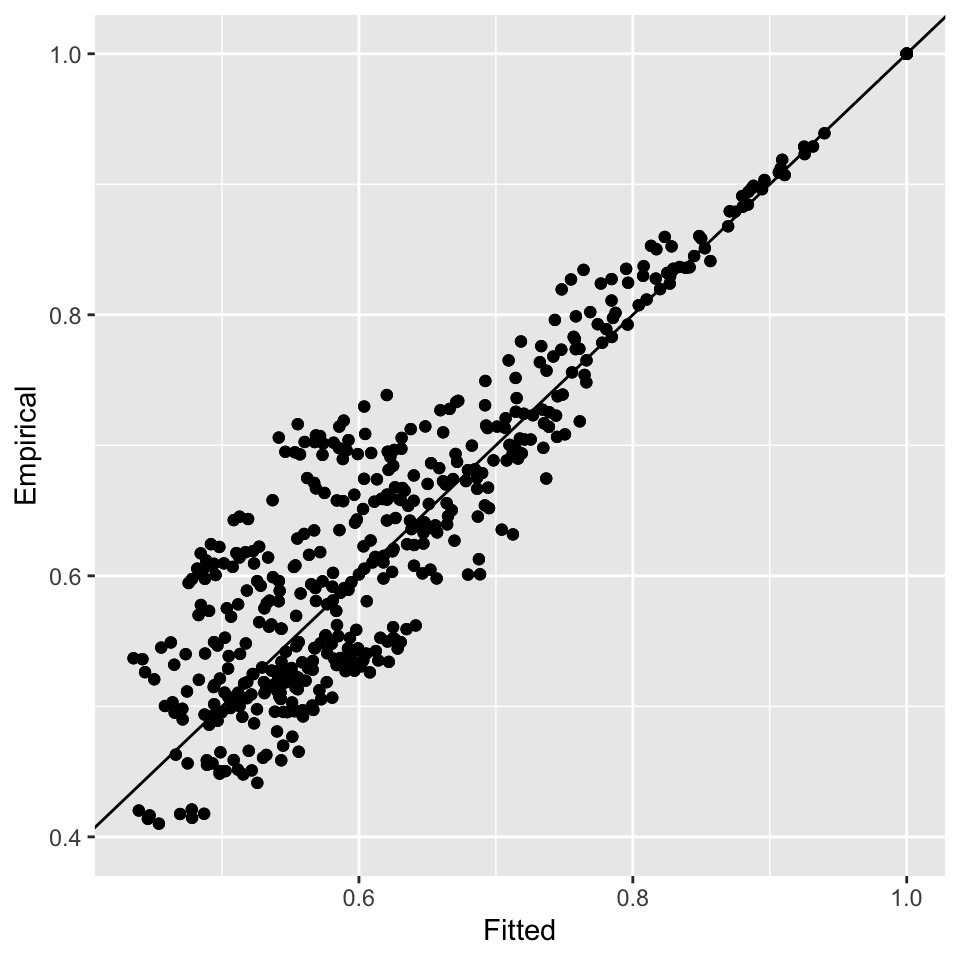
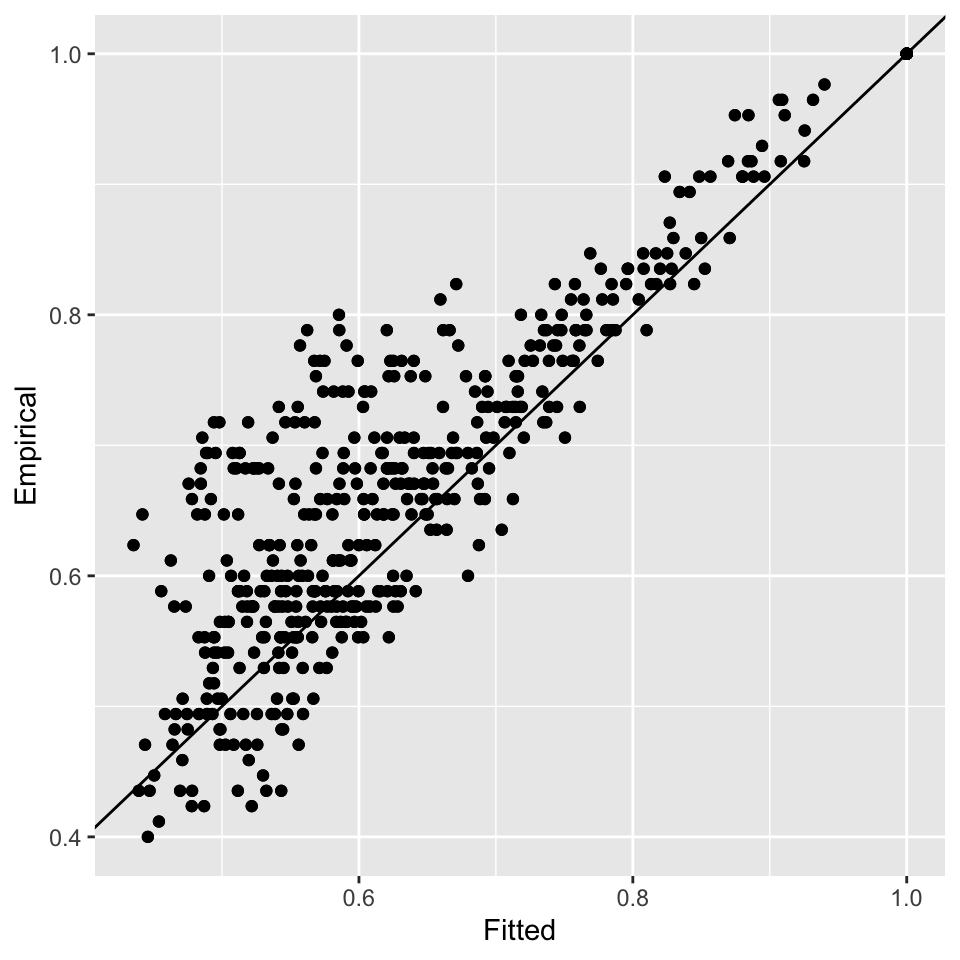
Built site for graphicalExtremes: 0.1.0.9000@cd755e6

Changed region(s): [[0.125, 0.0625, 0.875, 0.875], [0.4688, 0.2812, 0.5, 0.3125], [0.4375, 0.3125, 0.4688, 0.3438]]

diff --git a/articles/graphicalExtremes.html b/articles/graphicalExtremes.html
@@ -280,10 +280,10 @@ where <span class="math inline">\(\text{ph}(ij)\)</span> denotes the path betwee
 <p>If provided with a tree and data, the function <code><a href="../reference/fmpareto_graph_HR.html">fmpareto_graph_HR()</a></code> estimates the <span class="math inline">\(d-1\)</span> parametres of a Hüsler–Reiss model on that tree. As an example, we fit an extremal tree model to the (undirected) tree resulting from the flow connections in the <code><a href="../reference/danube.html">danube()</a></code> data set and compare the the fitted with the empirical extremal coefficients.</p>
 <div class="sourceCode" id="cb11"><pre class="downlit sourceCode r">
 <code class="sourceCode R"><span class="va">danube_tree</span> <span class="op">&lt;-</span> <span class="fu">igraph</span><span class="fu">::</span><span class="fu"><a href="https://rdrr.io/pkg/igraph/man/as.directed.html">as.undirected</a></span><span class="op">(</span><span class="va">danube_flow</span><span class="op">)</span>
-<span class="va">my_fit</span> <span class="op">&lt;-</span> <span class="fu"><a href="../reference/fmpareto_graph_HR.html">fmpareto_graph_HR</a></span><span class="op">(</span>data <span class="op">=</span> <span class="va">X</span>, graph <span class="op">=</span> <span class="va">danube_tree</span>, p <span class="op">=</span> <span class="fl">.8</span><span class="op">)</span>
+<span class="va">danube_flow_fit</span> <span class="op">&lt;-</span> <span class="fu"><a href="../reference/fmpareto_graph_HR.html">fmpareto_graph_HR</a></span><span class="op">(</span>data <span class="op">=</span> <span class="va">X</span>, graph <span class="op">=</span> <span class="va">danube_tree</span>, p <span class="op">=</span> <span class="fl">.8</span><span class="op">)</span>
 
 <span class="fu">ggplot</span><span class="op">(</span><span class="op">)</span> <span class="op">+</span>
-  <span class="fu">geom_point</span><span class="op">(</span><span class="fu">aes</span><span class="op">(</span>x <span class="op">=</span> <span class="fu"><a href="https://rdrr.io/r/base/c.html">c</a></span><span class="op">(</span><span class="fu"><a href="../reference/Gamma2chi.html">Gamma2chi</a></span><span class="op">(</span><span class="va">my_fit</span><span class="op">$</span><span class="va">Gamma</span><span class="op">)</span><span class="op">)</span>, y <span class="op">=</span> <span class="fu"><a href="https://rdrr.io/r/base/c.html">c</a></span><span class="op">(</span><span class="fu"><a href="../reference/Gamma2chi.html">Gamma2chi</a></span><span class="op">(</span><span class="va">Gamma_hat</span><span class="op">)</span><span class="op">)</span><span class="op">)</span><span class="op">)</span> <span class="op">+</span>
+  <span class="fu">geom_point</span><span class="op">(</span><span class="fu">aes</span><span class="op">(</span>x <span class="op">=</span> <span class="fu"><a href="https://rdrr.io/r/base/c.html">c</a></span><span class="op">(</span><span class="fu"><a href="../reference/Gamma2chi.html">Gamma2chi</a></span><span class="op">(</span><span class="va">danube_flow_fit</span><span class="op">$</span><span class="va">Gamma</span><span class="op">)</span><span class="op">)</span>, y <span class="op">=</span> <span class="fu"><a href="https://rdrr.io/r/base/c.html">c</a></span><span class="op">(</span><span class="va">chi_hat</span><span class="op">)</span><span class="op">)</span><span class="op">)</span> <span class="op">+</span>
   <span class="fu">geom_abline</span><span class="op">(</span>slope <span class="op">=</span> <span class="fl">1</span>, intercept <span class="op">=</span> <span class="fl">0</span><span class="op">)</span> <span class="op">+</span>
   <span class="fu">xlab</span><span class="op">(</span><span class="st">"Fitted"</span><span class="op">)</span> <span class="op">+</span>
   <span class="fu">ylab</span><span class="op">(</span><span class="st">"Empirical"</span><span class="op">)</span> <span class="op">+</span>
@@ -303,8 +303,8 @@ that minimizes the sum of distances on that tree.</p>
 <p>In fact, taking the average of all <span class="math inline">\(\hat \Gamma^{(k)}\)</span>, <span class="math inline">\(k \in V\)</span>, and using this as weights <span class="math inline">\(\rho_{ij} = \hat \Gamma_{ij}\)</span> makes better use of the data and usually improves the performance of structure estimation significantly. <span class="citation">Engelke and Volgushev (2020)</span> further show that the empircal extremal correlation <span class="math inline">\(\rho_{ij} = \hat \chi_{ij}\)</span> may also be used for consistent tree recovery, but the performance is typically inferior to extremal variogram based algorithms.</p>
 <p>The function <code><a href="../reference/emst.html">emst()</a></code> estimates the extremal tree structure by a minimum spanning tree algorithm based on the different summary statistics for extremal dependence. It provides the estimated tree and the implied extremal variogram matrix through <a href="#eq:treemetric">(4.2)</a>.</p>
 <div class="sourceCode" id="cb12"><pre class="downlit sourceCode r">
-<code class="sourceCode R"><span class="va">my_fit</span> <span class="op">&lt;-</span> <span class="fu"><a href="../reference/emst.html">emst</a></span><span class="op">(</span>data <span class="op">=</span> <span class="va">X</span>, p <span class="op">=</span> <span class="fl">.8</span>, method <span class="op">=</span> <span class="st">"vario"</span><span class="op">)</span>
-<span class="fu"><a href="https://rdrr.io/r/graphics/plot.default.html">plot</a></span><span class="op">(</span><span class="va">my_fit</span><span class="op">$</span><span class="va">tree</span>, layout <span class="op">=</span> <span class="va">danube</span><span class="op">$</span><span class="va">coords_to_plot</span><span class="op">)</span></code></pre></div>
+<code class="sourceCode R"><span class="va">danube_emst_fit</span> <span class="op">&lt;-</span> <span class="fu"><a href="../reference/emst.html">emst</a></span><span class="op">(</span>data <span class="op">=</span> <span class="va">X</span>, p <span class="op">=</span> <span class="fl">.8</span>, method <span class="op">=</span> <span class="st">"vario"</span><span class="op">)</span>
+<span class="fu"><a href="https://rdrr.io/r/graphics/plot.default.html">plot</a></span><span class="op">(</span><span class="va">danube_emst_fit</span><span class="op">$</span><span class="va">tree</span>, layout <span class="op">=</span> <span class="va">danube</span><span class="op">$</span><span class="va">coords_to_plot</span><span class="op">)</span></code></pre></div>
 <p><img src="graphicalExtremes_files/figure-html/unnamed-chunk-13-1.png" width="480" style="display: block; margin: auto;"></p>
 </div>
 </div>
@@ -450,6 +450,36 @@ Combining the clique estimates relies on the same principle as in the <code><a h
   <span class="fu">ylab</span><span class="op">(</span><span class="st">"True"</span><span class="op">)</span> <span class="op">+</span>
   <span class="fu">coord_cartesian</span><span class="op">(</span>ylim <span class="op">=</span> <span class="fu"><a href="https://rdrr.io/r/base/c.html">c</a></span><span class="op">(</span><span class="fl">0.5</span>, <span class="fl">1</span><span class="op">)</span><span class="op">)</span></code></pre></div>
 <p><img src="graphicalExtremes_files/figure-html/unnamed-chunk-20-2.png" width="480" style="display: block; margin: auto;"></p>
+</div>
+<div id="extremal-graphical-lasso" class="section level3">
+<h3 class="hasAnchor">
+<a href="#extremal-graphical-lasso" class="anchor"></a><span class="header-section-number">4.2.4</span> Extremal graphical lasso</h3>
+<div class="sourceCode" id="cb22"><pre class="downlit sourceCode r">
+<code class="sourceCode R"><span class="fu"><a href="https://rdrr.io/r/base/Random.html">set.seed</a></span><span class="op">(</span><span class="fl">42</span><span class="op">)</span>
+<span class="va">rholist</span> <span class="op">=</span> <span class="fu"><a href="https://rdrr.io/r/base/seq.html">seq</a></span><span class="op">(</span><span class="fl">1e-5</span>, <span class="fl">0.04</span>, length.out <span class="op">=</span> <span class="fl">20</span><span class="op">)</span>
+<span class="va">my_eglasso</span> <span class="op">&lt;-</span> <span class="fu"><a href="../reference/eglasso.html">eglasso</a></span><span class="op">(</span>Gamma <span class="op">=</span> <span class="va">Gamma_hat</span>, rholist <span class="op">=</span> <span class="va">rholist</span>, 
+                    eps <span class="op">=</span> <span class="fl">.5</span>, reg_method <span class="op">=</span> <span class="st">"glasso"</span><span class="op">)</span>
+
+<span class="va">my_loglik</span> <span class="op">&lt;-</span> <span class="fu"><a href="https://rdrr.io/r/base/lapply.html">sapply</a></span><span class="op">(</span><span class="fl">1</span><span class="op">:</span><span class="fu"><a href="https://rdrr.io/r/base/length.html">length</a></span><span class="op">(</span><span class="va">rholist</span><span class="op">)</span>, FUN <span class="op">=</span> <span class="kw">function</span><span class="op">(</span><span class="va">j</span><span class="op">)</span> 
+  <span class="fu"><a href="../reference/loglik_HR.html">loglik_HR</a></span><span class="op">(</span>data<span class="op">=</span><span class="va">X</span>, p<span class="op">=</span><span class="fl">.8</span>, Gamma <span class="op">=</span> <span class="va">my_eglasso</span><span class="op">[[</span><span class="va">j</span><span class="op">]</span><span class="op">]</span><span class="op">$</span><span class="va">Gamma</span>, cens <span class="op">=</span> <span class="cn">FALSE</span>, graph <span class="op">=</span>  <span class="va">my_eglasso</span><span class="op">[[</span><span class="va">j</span><span class="op">]</span><span class="op">]</span><span class="op">$</span><span class="va">graph</span><span class="op">)</span><span class="op">)</span>
+
+<span class="va">na.idx</span> <span class="op">&lt;-</span> <span class="fu"><a href="https://rdrr.io/r/base/length.html">length</a></span><span class="op">(</span><span class="va">rholist</span><span class="op">)</span>
+<span class="fu"><a href="https://rdrr.io/r/graphics/plot.default.html">plot</a></span><span class="op">(</span><span class="va">rholist</span><span class="op">[</span><span class="fl">1</span><span class="op">:</span><span class="va">na.idx</span><span class="op">]</span>, <span class="va">my_loglik</span><span class="op">[</span><span class="fl">3</span>,<span class="op">]</span>, col<span class="op">=</span><span class="st">"blue"</span>, type<span class="op">=</span><span class="st">"b"</span><span class="op">)</span>
+
+<span class="va">tree_loglik_HR</span> <span class="op">&lt;-</span> <span class="fu"><a href="../reference/loglik_HR.html">loglik_HR</a></span><span class="op">(</span>data<span class="op">=</span><span class="va">X</span>, p<span class="op">=</span><span class="fl">.8</span>, Gamma <span class="op">=</span> <span class="va">danube_emst_fit</span><span class="op">$</span><span class="va">Gamma</span>, cens <span class="op">=</span> <span class="cn">FALSE</span>, graph <span class="op">=</span> <span class="va">danube_emst_fit</span><span class="op">$</span><span class="va">tree</span><span class="op">)</span>
+<span class="fu"><a href="https://rdrr.io/r/graphics/abline.html">abline</a></span><span class="op">(</span>h <span class="op">=</span> <span class="va">tree_loglik_HR</span><span class="op">[</span><span class="fl">3</span><span class="op">]</span>, col<span class="op">=</span><span class="st">"blue"</span><span class="op">)</span></code></pre></div>
+<p><img src="graphicalExtremes_files/figure-html/unnamed-chunk-21-1.png" width="480" style="display: block; margin: auto;"></p>
+<div class="sourceCode" id="cb23"><pre class="downlit sourceCode r">
+<code class="sourceCode R">
+<span class="va">my_model</span> <span class="op">&lt;-</span> <span class="va">my_eglasso</span><span class="op">[[</span><span class="fu"><a href="https://rdrr.io/r/base/which.min.html">which.min</a></span><span class="op">(</span><span class="va">my_loglik</span><span class="op">[</span><span class="fl">3</span>,<span class="op">]</span><span class="op">)</span><span class="op">]</span><span class="op">]</span>
+
+<span class="fu">ggplot</span><span class="op">(</span><span class="op">)</span> <span class="op">+</span>
+  <span class="fu">geom_point</span><span class="op">(</span><span class="fu">aes</span><span class="op">(</span>x <span class="op">=</span> <span class="fu"><a href="https://rdrr.io/r/base/c.html">c</a></span><span class="op">(</span><span class="fu"><a href="../reference/Gamma2chi.html">Gamma2chi</a></span><span class="op">(</span><span class="va">my_model</span><span class="op">$</span><span class="va">Gamma</span><span class="op">)</span><span class="op">)</span>, y <span class="op">=</span> <span class="fu"><a href="https://rdrr.io/r/base/c.html">c</a></span><span class="op">(</span><span class="va">chi_hat</span><span class="op">)</span><span class="op">)</span><span class="op">)</span> <span class="op">+</span>
+  <span class="fu">geom_abline</span><span class="op">(</span>slope <span class="op">=</span> <span class="fl">1</span>, intercept <span class="op">=</span> <span class="fl">0</span><span class="op">)</span> <span class="op">+</span>
+  <span class="fu">xlab</span><span class="op">(</span><span class="st">"Fitted"</span><span class="op">)</span> <span class="op">+</span>
+  <span class="fu">ylab</span><span class="op">(</span><span class="st">"Empirical"</span><span class="op">)</span> <span class="op">+</span>
+  <span class="fu">coord_cartesian</span><span class="op">(</span>ylim <span class="op">=</span> <span class="fu"><a href="https://rdrr.io/r/base/c.html">c</a></span><span class="op">(</span><span class="fl">0.4</span>, <span class="fl">1</span><span class="op">)</span><span class="op">)</span></code></pre></div>
+<p><img src="graphicalExtremes_files/figure-html/unnamed-chunk-21-2.png" width="480" style="display: block; margin: auto;"></p>
 <!-- ### Eglasso -->
 <!-- function: eglasso -->
 </div>

diff --git a/reference/generate_random_model.html b/reference/generate_random_model.html
@@ -157,8 +157,8 @@ structure corresponding to that graph.</p>
 
 <span class='fu'>generate_random_model</span><span class='op'>(</span><span class='va'>d</span>, <span class='st'>'tree'</span><span class='op'>)</span>
 </div><div class='output co'>#&gt; $graph
-#&gt; IGRAPH 7862916 U--- 12 11 -- 
-#&gt; + edges from 7862916:
+#&gt; IGRAPH f46d54d U--- 12 11 -- 
+#&gt; + edges from f46d54d:
 #&gt;  [1] 1-- 7 1--12 2-- 3 3-- 8 3-- 9 4-- 5 4-- 6 6--10 7--10 7--11 9--10
 #&gt; 
 #&gt; $Gamma
@@ -190,8 +190,8 @@ structure corresponding to that graph.</p>
 #&gt; [12,] 3.4255984 2.9348288 2.3928410 2.3434826 0.000000
 #&gt; </div><div class='input'><span class='fu'>generate_random_model</span><span class='op'>(</span><span class='va'>d</span>, <span class='st'>'block'</span><span class='op'>)</span>
 </div><div class='output co'>#&gt; $graph
-#&gt; IGRAPH e7269d2 U--- 12 21 -- 
-#&gt; + edges from e7269d2:
+#&gt; IGRAPH cecf91b U--- 12 21 -- 
+#&gt; + edges from cecf91b:
 #&gt;  [1]  1-- 2  2-- 3  2-- 4  2-- 5  2-- 6  2-- 7  2-- 8  2-- 9  2--10  4-- 5
 #&gt; [11]  4-- 6  5-- 6  7-- 8  7-- 9  7--10  7--11  7--12  8-- 9  8--10  9--10
 #&gt; [21] 11--12
@@ -225,8 +225,8 @@ structure corresponding to that graph.</p>
 #&gt; [12,] 0.86316999 0.93143346 0.9637950 0.2993314 0.0000000
 #&gt; </div><div class='input'><span class='fu'>generate_random_model</span><span class='op'>(</span><span class='va'>d</span>, <span class='st'>'decomposable'</span><span class='op'>)</span>
 </div><div class='output co'>#&gt; $graph
-#&gt; IGRAPH 94edbc9 U--- 12 25 -- 
-#&gt; + edges from 94edbc9:
+#&gt; IGRAPH 98ed480 U--- 12 25 -- 
+#&gt; + edges from 98ed480:
 #&gt;  [1]  1-- 2  1-- 3  1-- 7  1-- 8  2-- 3  2-- 4  2-- 5  2-- 6  2-- 7  2-- 8
 #&gt; [11]  2-- 9  2--10  2--11  4-- 5  4-- 6  4-- 9  4--10  4--11  4--12  5-- 6
 #&gt; [21]  5--12  7-- 8  9--10  9--11 10--11
@@ -260,9 +260,9 @@ structure corresponding to that graph.</p>
 #&gt; [12,] 1.5769559 0.5561065 0.5499711 0.49959825 0.0000000
 #&gt; </div><div class='input'><span class='fu'>generate_random_model</span><span class='op'>(</span><span class='va'>d</span>, <span class='st'>'general'</span><span class='op'>)</span>
 </div><div class='output co'>#&gt; $graph
-#&gt; IGRAPH a4e507b U--- 12 24 -- Erdos renyi (gnm) graph
+#&gt; IGRAPH e1ece3b U--- 12 24 -- Erdos renyi (gnm) graph
 #&gt; + attr: name (g/c), type (g/c), loops (g/l), m (g/n)
-#&gt; + edges from a4e507b:
+#&gt; + edges from e1ece3b:
 #&gt;  [1]  1-- 4  1-- 5  3-- 5  4-- 5  2-- 6  1-- 7  2-- 8  4-- 8  5-- 8  1-- 9
 #&gt; [11]  6-- 9  8-- 9  1--10  3--10  4--10  5--10  7--10  1--11  4--11  8--11
 #&gt; [21] 10--11  1--12  7--12  9--12

diff --git a/reference/Gamma2graph.html b/reference/Gamma2graph.html
@@ -170,8 +170,8 @@ defined in equation (10) in Engelke and Hitz (2020)
 <span class='op'>)</span>
 
 <span class='fu'>Gamma2graph</span><span class='op'>(</span><span class='va'>Gamma</span>, to_plot <span class='op'>=</span> <span class='cn'>TRUE</span><span class='op'>)</span>
-</div><div class='img'><img src='Gamma2graph-1.png' alt='' width='700' height='433' /></div><div class='output co'>#&gt; IGRAPH ad706db U--- 4 4 -- 
-#&gt; + edges from ad706db:
+</div><div class='img'><img src='Gamma2graph-1.png' alt='' width='700' height='433' /></div><div class='output co'>#&gt; IGRAPH 89b6249 U--- 4 4 -- 
+#&gt; + edges from 89b6249:
 #&gt; [1] 1--2 1--3 2--4 3--4</div></pre>
   </div>
   <div class="col-md-3 hidden-xs hidden-sm" id="pkgdown-sidebar">
